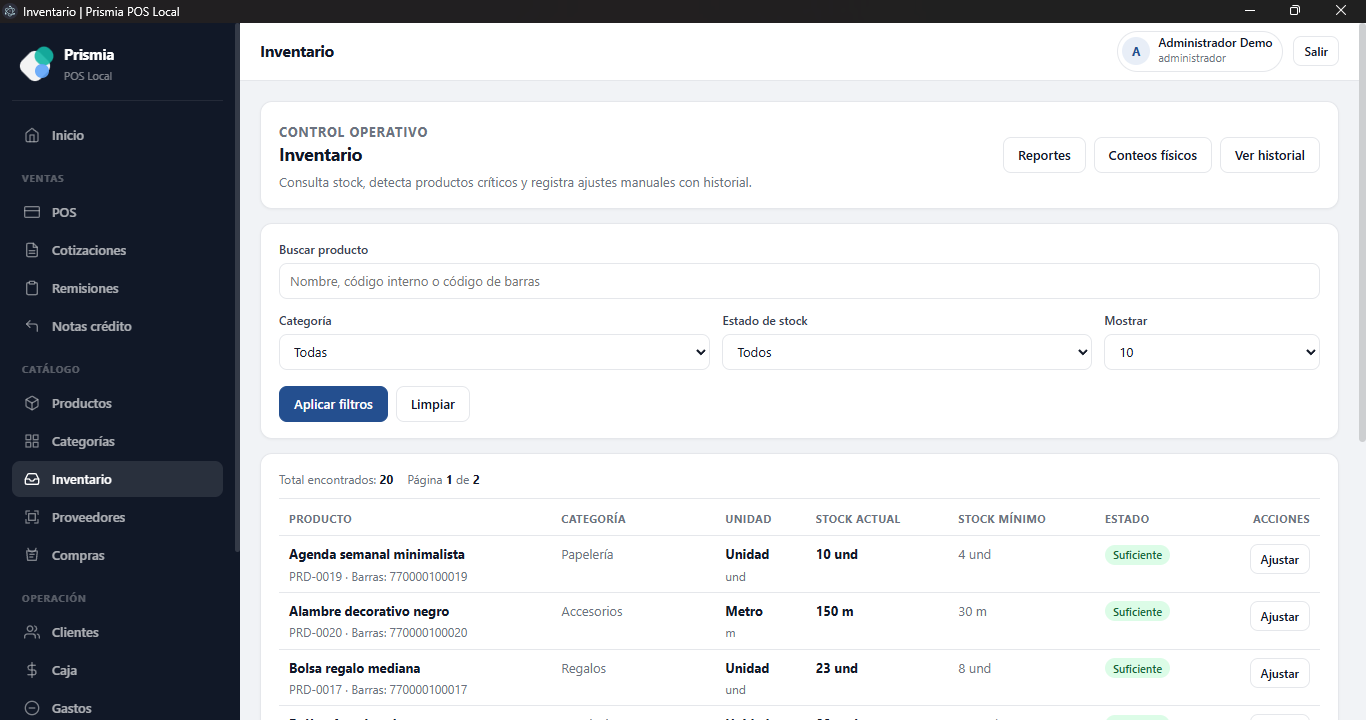
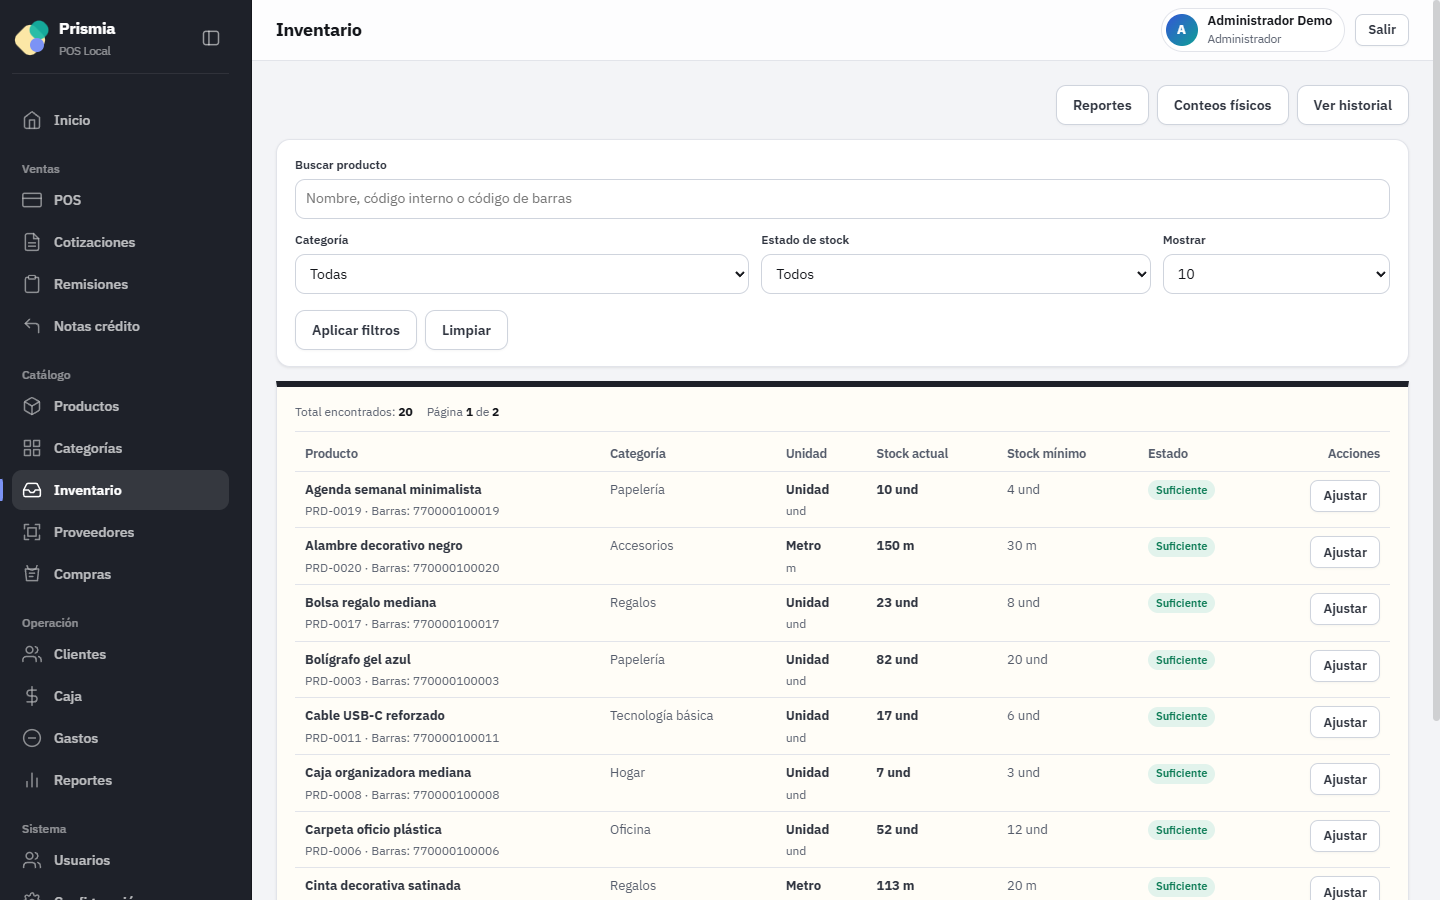
README con el diseño nuevo: capturas del demo y secciones de diseño y exactitud
- Capturas nuevas tomadas con la base de demostración (npm run demo:reset),
  sin datos reales: POS (venta por metros con descuento), Inicio, login con
  la impresora animada, Caja, Inventario y el ticket térmico.
- Secciones nuevas: "Diseño" (tinta y papel, IBM Plex, un botón fuerte por
  pantalla, atajos, perfiles) y "Exactitud y seguridad" (aritmética exacta,
  caja derivada de movimientos, migraciones con respaldo, protecciones,
  pruebas). "Operación comercial" con lo que hace hoy el POS.
- Ticket: la cuenta de cada línea usa el precio neto (2 und × $ 17.000 =
  $ 34.000) y el descuento queda debajo ("Desc. $ 1.900 c/u").
- Demo: la apertura y el cierre de los turnos se guardan en UTC, como en la
  app (antes aparecían 5 horas corridos).
- PLAN: resumen de la unión con GitHub; propinas pendiente.

diff --git a/scripts/demo/reset-demo-landing.js b/scripts/demo/reset-demo-landing.js
@@ -112,6 +112,17 @@ function formatoFecha(offsetDias = 0, hora = '10:00:00') {
     return `${yyyy}-${mm}-${dd} ${hora}`;
 }
 
+// Turnos de caja: la app guarda apertura y cierre en UTC (datetime('now')) y los
+// muestra en hora local. El demo debe guardarlos igual o aparecen corridos.
+function formatoFechaUtc(offsetDias = 0, hora = '10:00:00') {
+    const [horas, minutos, segundos] = hora.split(':').map(Number);
+    const fecha = new Date();
+    fecha.setDate(fecha.getDate() + offsetDias);
+    fecha.setHours(horas, minutos, segundos || 0, 0);
+
+    return fecha.toISOString().slice(0, 19).replace('T', ' ');
+}
+
 function dinero(valor) {
     return Math.round(Number(valor || 0));
 }
@@ -415,8 +426,8 @@ function crearCajaVentasDemo(db, idUsuario) {
     const turnoCerrado = crearTurno.run(
         idUsuario,
         idUsuario,
-        formatoFecha(-1, '08:20:00'),
-        formatoFecha(-1, '18:10:00'),
+        formatoFechaUtc(-1, '08:20:00'),
+        formatoFechaUtc(-1, '18:10:00'),
         100000,
         100000,
         100000,
@@ -429,7 +440,7 @@ function crearCajaVentasDemo(db, idUsuario) {
     const turnoAbierto = crearTurno.run(
         idUsuario,
         null,
-        formatoFecha(0, '08:35:00'),
+        formatoFechaUtc(0, '08:35:00'),
         null,
         120000,
         120000,

diff --git a/README.md b/README.md
@@ -19,15 +19,36 @@ Prismia POS Local es una aplicación para Windows orientada a la gestión diaria
 ## Vista del producto
 
 <p align="center">
-  <img src="docs/images/dashboard.png" width="48%" alt="Dashboard de Prismia POS">
-  <img src="docs/images/pos.png" width="48%" alt="Punto de venta de Prismia POS">
+  <img src="docs/images/pos.png" width="96%" alt="Punto de venta de Prismia: ticket en papel térmico, cantidades por metro, descuento por línea y cobro">
 </p>
 
 <p align="center">
-  <img src="docs/images/inventario.png" width="48%" alt="Módulo de inventario de Prismia POS">
-  <img src="docs/images/caja.png" width="48%" alt="Módulo de caja de Prismia POS">
+  <img src="docs/images/dashboard.png" width="48%" alt="Inicio: ventas de hoy por hora, caja en tinta, medios de pago y últimas ventas">
+  <img src="docs/images/login.png" width="48%" alt="Inicio de sesión con impresora de tickets animada">
 </p>
 
+<p align="center">
+  <img src="docs/images/caja.png" width="48%" alt="Caja: efectivo esperado y movimientos por medio de pago">
+  <img src="docs/images/inventario.png" width="48%" alt="Inventario sobre el papel del ticket">
+</p>
+
+<p align="center">
+  <img src="docs/images/ticket.png" width="32%" alt="Ticket de venta térmico: cada producto como una cuenta, IVA por tarifa y descuentos">
+</p>
+
+<sub>Capturas con la base de demostración (<code>npm run demo:reset</code>): ningún dato real.</sub>
+
+---
+
+## Diseño
+
+La interfaz nace del punto de venta y se extiende a todo el sistema:
+
+- **Tinta y papel.** Menú, caja y acciones principales en tinta (`#1e2129`); los datos (listados, documentos, detalles) sobre el papel crema del ticket con su franja negra; filtros e indicadores en blanco.
+- **Cifras que se leen de un vistazo.** IBM Plex Sans para el texto e IBM Plex Mono para dinero y códigos, incluidas en la app (funciona sin internet).
+- **Un solo botón fuerte por pantalla.** Tinta para la acción principal, blanco para las secundarias y verde solo para Cobrar.
+- **Rápido con teclado o táctil.** Lector de código de barras, atajos (F2 buscar, F4 cliente, F6 descuento, F8 cantidad, F9 cobrar, Alt+1…9 medios y frecuentes) y modo táctil con fotos.
+- **Se adapta al negocio.** Perfiles general, comidas y boutique: cambian el color de acento y el formato de las fotos.
 
 ---
 
@@ -35,10 +56,13 @@ Prismia POS Local es una aplicación para Windows orientada a la gestión diaria
 
 ### Operación comercial
 
-- Registrar ventas desde un POS pensado para escritorio y uso táctil.
-- Buscar productos y trabajar con carrito de venta.
-- Manejar distintos métodos de pago y pagos mixtos.
-- Generar tickets de venta.
+- Registrar ventas desde un POS pensado para escritorio y uso táctil, con el ticket en pantalla como papel térmico.
+- Vender por unidad, metro, kilo o cualquier medida con decimales ("2,5 m × $ 2.200").
+- Buscar por palabras sueltas y sin tildes ("cable 12 blanco"); el lector de código de barras agrega el producto exacto.
+- Aplicar descuentos por línea (en pesos o con % rápido) que quedan en el ticket y en los reportes.
+- Manejar distintos métodos de pago y pagos mixtos, con cambio y referencia.
+- Dejar ventas en espera y retomarlas; la venta en curso no se pierde al cambiar de módulo.
+- Generar tickets térmicos con IVA por tarifa, descuentos y pagos.
 - Consultar historial de ventas.
 - Crear cotizaciones, remisiones y notas crédito.
 
@@ -80,6 +104,16 @@ Prismia POS Local es una aplicación para Windows orientada a la gestión diaria
 
 ---
 
+## Exactitud y seguridad
+
+- **Dinero exacto.** Todas las cuentas (líneas, IVA incluido o aparte, descuentos, cambio, pagos mixtos, efectivo esperado) usan aritmética entera en pesos y cantidades en milésimas, la misma en el servidor y en el navegador: sin errores de punto flotante.
+- **Caja que cuadra.** Los totales del turno se derivan de los movimientos; pruebas automáticas verifican que cada venta cuadre (total = líneas = pagos) y que la numeración sea consecutiva.
+- **Migraciones versionadas.** La base se actualiza sola al arrancar, con un respaldo automático previo.
+- **Protecciones.** Límite de intentos de inicio de sesión, verificación de origen en formularios (CSRF), sesión regenerada al entrar y servidor que solo escucha en el propio equipo.
+- **Pruebas.** `npm test` corre las pruebas de dinero, caja, búsqueda y seguridad sobre bases temporales.
+
+---
+
 ## Licenciamiento V1
 
 Prismia incorpora un sistema de licenciamiento local pensado para una primera etapa comercial y piloto.
@@ -111,7 +145,7 @@ La documentación técnica completa se encuentra en:
 | Área | Tecnologías |
 | --- | --- |
 | Backend | Node.js, Express |
-| Frontend | EJS, JavaScript, CSS |
+| Frontend | EJS, JavaScript, CSS · IBM Plex Sans y Mono (SIL OFL 1.1, incluidas) |
 | Base de datos | SQLite, better-sqlite3 |
 | Desktop | Electron |
 | Empaquetado | electron-builder, NSIS |

diff --git a/docs/PLAN.md b/docs/PLAN.md
@@ -204,6 +204,19 @@ Parte 2 — táctil y pantallas pequeñas:
 - [ ] Llevar las acciones de cada módulo a la barra superior, como el POS
       (hoy ocupan una fila propia). Requiere tocar ~25 vistas: hacerlo módulo a módulo.
 
+## Unión con GitHub (2026-11-24)
+- [x] La rama de la auditoría se unió con 66 commits de GitHub (junio-agosto:
+      licencia local, descuentos por línea, login reforzado, manuales).
+- [x] Descuentos por línea llevados al POS nuevo (clic en el precio o F6), al
+      ticket (precio neto + "Descuentos aplicados") y a Reportes.
+- [x] Migración versionada 006 = migraciones manuales 038-040 (licencia_local);
+      ensure-db ya no bloquea bases existentes sin esa tabla.
+- [x] Stock: se respeta "Permite vender sin stock" de cada producto (GitHub lo
+      ignoraba y bloqueaba siempre); mensaje claro de GitHub para el resto.
+- [x] "Nieves Systems" -> TINAI (se conserva el appId del instalador).
+- [x] README con capturas del diseño nuevo tomadas del demo (npm run demo:reset).
+- [ ] Propinas (bares y restaurantes): definir reglas y construir.
+
 ## Fase 5 — Calidad de código
 - [ ] Unificar cotizaciones y remisiones (~80 % duplicado).
 - [ ] Actualizar `xlsx` a 0.20.3 (requiere que el usuario lo instale).
